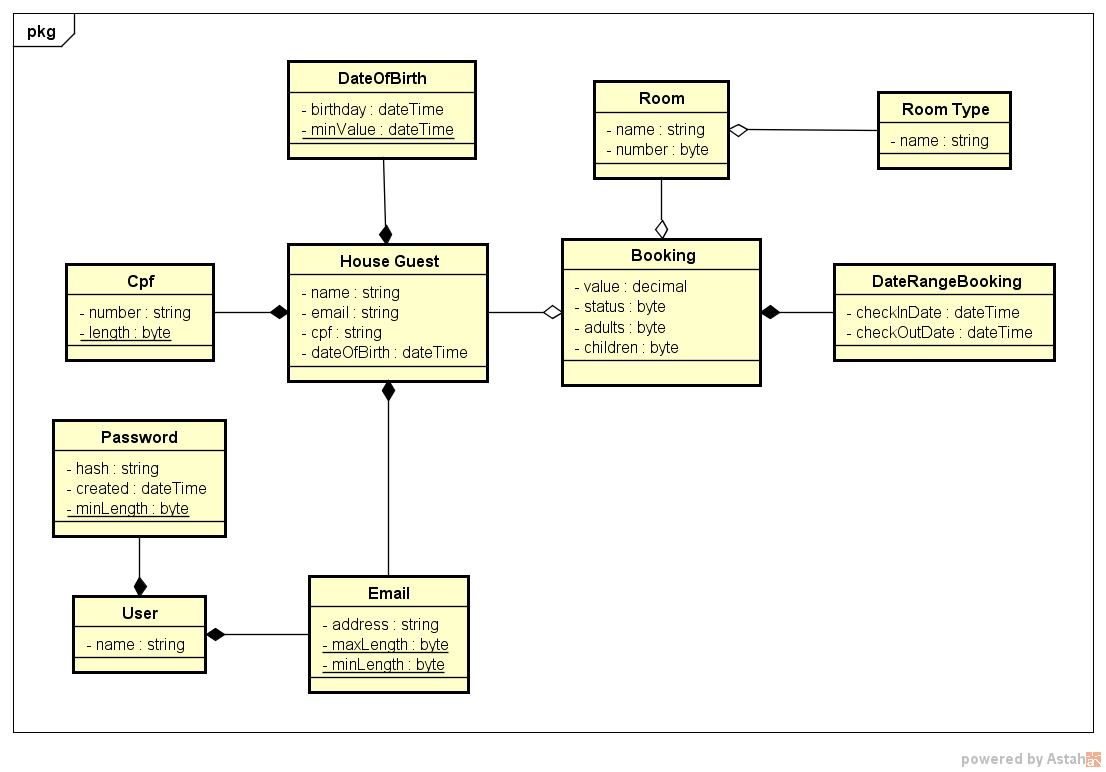
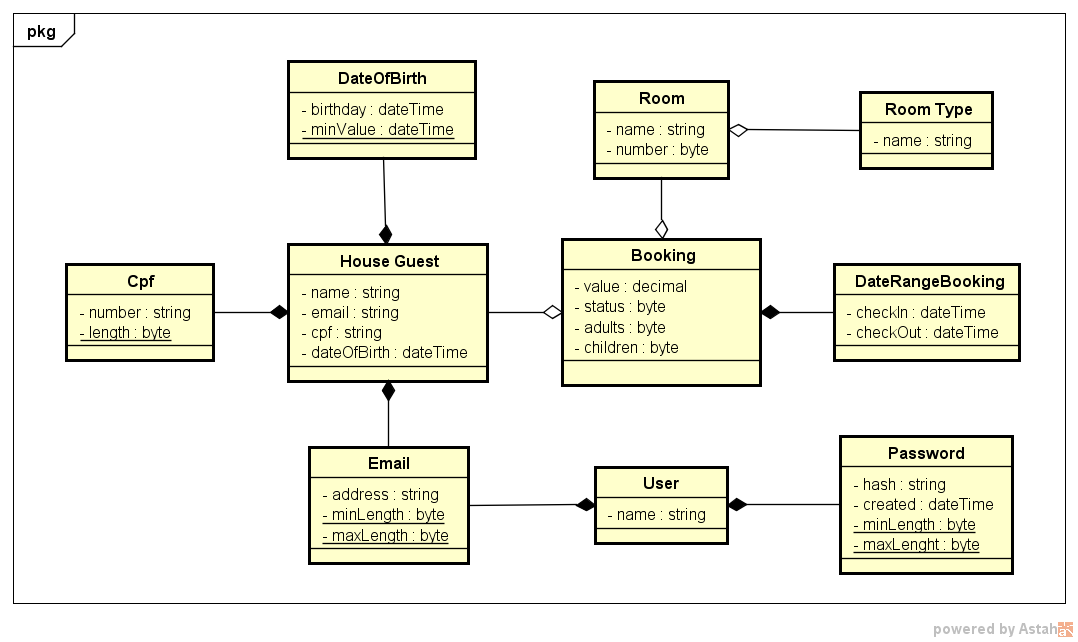
docs: update diagram

diff --git a/src/backend/4.Business/Orangotango.Business/Models/ValueObjects/Password.cs b/src/backend/4.Business/Orangotango.Business/Models/ValueObjects/Password.cs
@@ -9,6 +9,7 @@ namespace Orangotango.Business.Models.ValueObjects
     public class Password
     {
         public static readonly byte MinLength = 6;
+        public static readonly byte MaxLength = 20;
         public string Hash { get; private set; }
         public DateTime Created { get; private set; }
 
@@ -41,7 +42,7 @@ namespace Orangotango.Business.Models.ValueObjects
 
         public static bool IsValid(string value)
         {
-            if (string.IsNullOrEmpty(value) || value.Length < MinLength)
+            if (string.IsNullOrEmpty(value) || value.Length < MinLength || value.Length > MaxLength)
                 return false;
 
             return Regex.IsMatch(value, @"(?=^.{8,}$)((?=.*\d)|(?=.*\W+))(?![.\n])(?=.*[A-Z])(?=.*[a-z]).*$");

diff --git a/src/backend/4.Business/Orangotango.Business/Models/ValueObjects/Email.cs b/src/backend/4.Business/Orangotango.Business/Models/ValueObjects/Email.cs
@@ -5,8 +5,8 @@ namespace Orangotango.Business.Models.ValueObjects
 {
     public class Email
     {
-        public static readonly byte MaxLength = 254;
         public static readonly byte MinLength = 5;
+        public static readonly byte MaxLength = 254;
         public string Address { get; private set; }
 
         public Email(string emailAddress)
